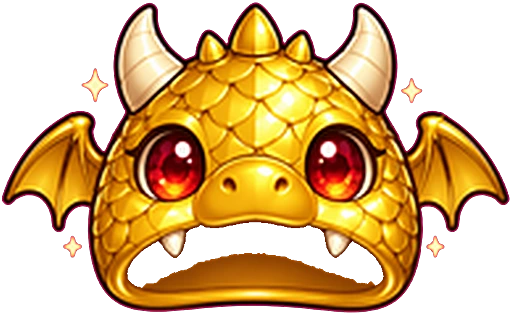
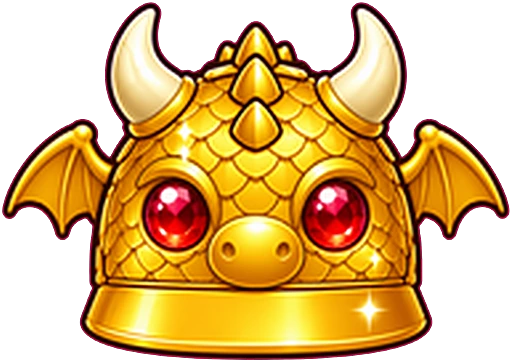
Chapéus de dragão e da amizade refeitos no estilo do chapéu de pioneiro
Claude-Session: https://claude.ai/code/session_01DKKp53mRpfSmByEjWBWWuc

diff --git a/public/art.js b/public/art.js
@@ -449,9 +449,9 @@
     mago:       { w: 0.84, ay: 0.88, lift: 0.105, tilt: -0.04 },
     pirata:     { w: 0.82, ay: 0.74, lift: 0.115, tilt: 0 },
     carneiro:   { w: 0.96, ay: 0.6, lift: 0.075, tilt: 0 },
-    dragao:     { w: 1.0, ay: 0.86, lift: 0.1, tilt: 0 },
-    dragao_ouro: { w: 1.0, ay: 0.86, lift: 0.1, tilt: 0 },
-    amigo:      { w: 0.88, ay: 0.72, lift: 0.1, tilt: 0 },
+    dragao:     { w: 1.0, ay: 0.8, lift: 0.1, tilt: 0 },
+    dragao_ouro: { w: 1.0, ay: 0.8, lift: 0.1, tilt: 0 },
+    amigo:      { w: 0.86, ay: 0.78, lift: 0.1, tilt: 0 },
     pioneiro:   { w: 0.86, ay: 0.78, lift: 0.1, tilt: 0 }
   };
   function spriteHat(g, id, prof, t, w, h) {
